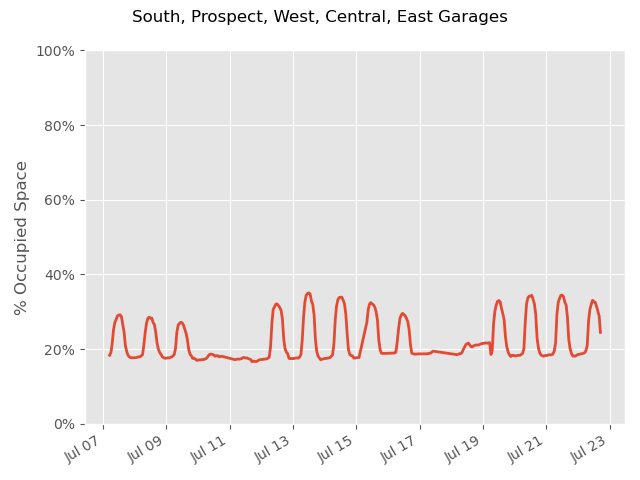
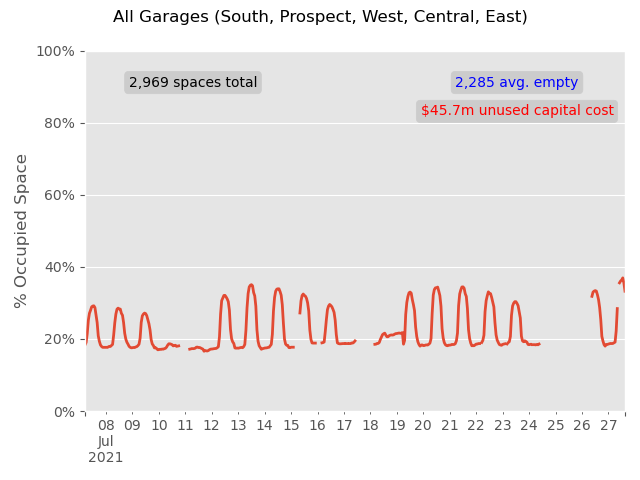
Add capital cost text box

diff --git a/charts.py b/charts.py
@@ -31,9 +31,11 @@ locator = md.AutoDateLocator()
 ax.set_ylabel('% Occupied Space')
 ax.set_xlabel('')
 ax.set_ylim(0, 1)
-plt.text(.5, .9, f'{parking_total:,d}' + ' spaces total', ha='center', transform=ax.transAxes,
+plt.text(.2, .9, f'{parking_total:,d}' + ' spaces total', ha='center', transform=ax.transAxes,
          bbox={'boxstyle': 'round', 'color': '.8'})
-plt.text(.8, .9, f'{avg_empty:,.0f} avg. empty', c='red', ha='center', transform=ax.transAxes,
+plt.text(.8, .9, f'{avg_empty:,.0f} avg. empty', c='blue', ha='center', transform=ax.transAxes,
+         bbox={'boxstyle': 'round', 'color': '.8'})
+plt.text(.8, .82, f'${avg_empty*20000/1000000:.1f}m unused capital cost', c='red', ha='center', transform=ax.transAxes,
          bbox={'boxstyle': 'round', 'color': '.8'})
 
 average_spaces = hourlymins
